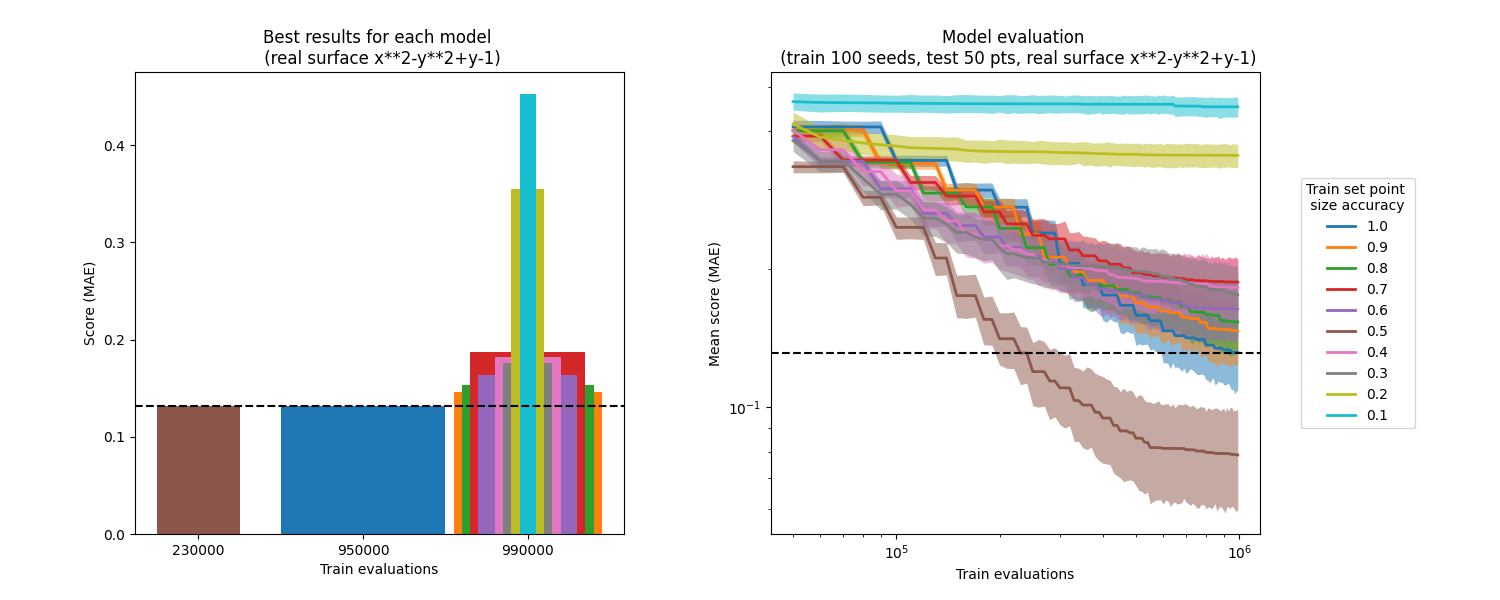
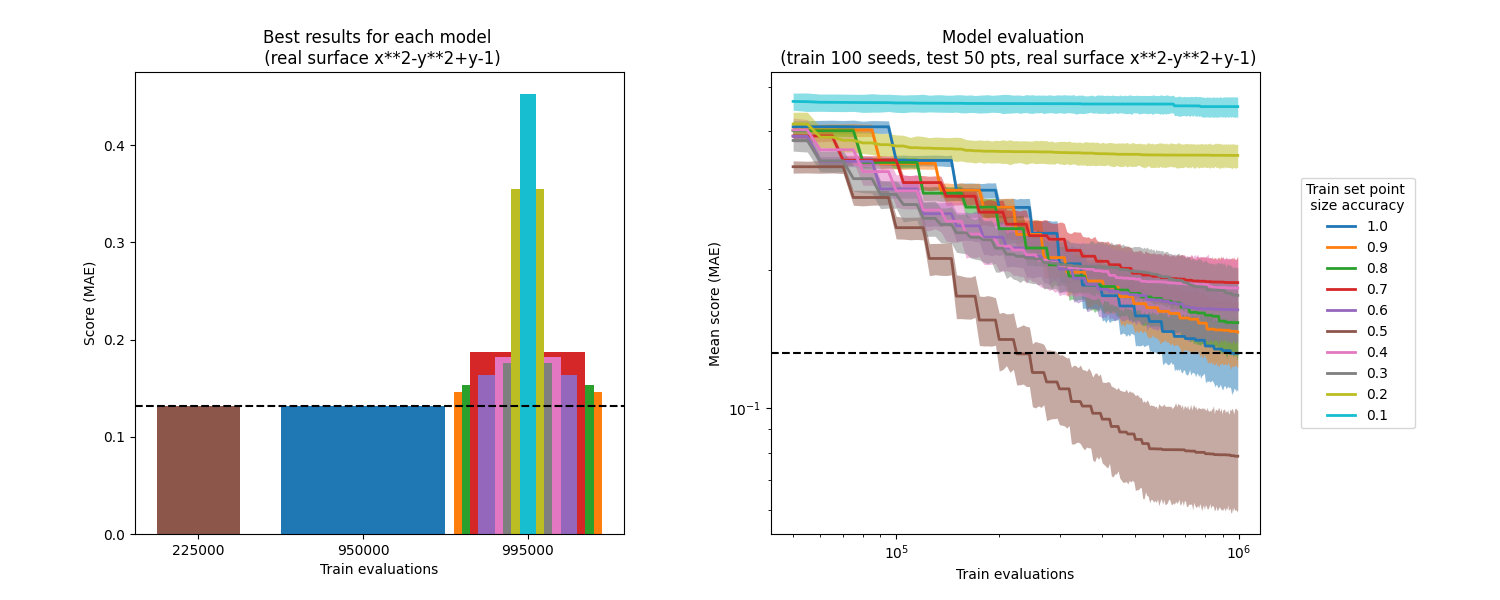
redraw results of ConstantAccuracyAnalysis experiment

diff --git a/experimentScripts_SymbolicRegressor/ConstantAccuracyAnalysis_figures.py b/experimentScripts_SymbolicRegressor/ConstantAccuracyAnalysis_figures.py
@@ -92,7 +92,12 @@ list_acc=np.load('results/data/SymbolicRegressor/ConstantAccuracyAnalysis/list_a
 eval_expr=str(np.load('results/data/SymbolicRegressor/ConstantAccuracyAnalysis/expr_surf.npy'))
 
 # Lista con límites de número de evaluaciones de entrenamiento que se desean dibujar.
-list_train_n_eval=range(50000,1000000,10000)
+df_train_acc_min=pd.read_csv("results/data/SymbolicRegressor/ConstantAccuracyAnalysis/df_train_acc"+str(min(list_acc))+".csv", index_col=0)
+df_train_acc_max=pd.read_csv("results/data/SymbolicRegressor/ConstantAccuracyAnalysis/df_train_acc"+str(max(list_acc))+".csv", index_col=0)
+max_n_eval=np.load('results/data/SymbolicRegressor/ConstantAccuracyAnalysis/max_n_eval.npy')
+min_n_eval=max(df_train_acc_max.groupby("train_seed")["n_eval"].min())
+split_n_eval=max(df_train_acc_min.groupby("train_seed")["n_eval"].min())
+list_train_n_eval=np.arange(min_n_eval,max_n_eval,split_n_eval)
 
 # Conseguir datos para la gráfica.
 train_times=[]

diff --git a/experimentScripts_SymbolicRegressor/ConstantAccuracyAnalysis_data.py b/experimentScripts_SymbolicRegressor/ConstantAccuracyAnalysis_data.py
@@ -648,6 +648,9 @@ np.save('results/data/SymbolicRegressor/ConstantAccuracyAnalysis/list_acc',list_
 # Guardar expresión de superficie.
 np.save('results/data/SymbolicRegressor/ConstantAccuracyAnalysis/expr_surf',expr_surf_real)
 
+# Guardar límite de entrenamiento.
+np.save('results/data/SymbolicRegressor/ConstantAccuracyAnalysis/max_n_eval',max_n_eval)
+
 # Función para ejecución en paralelo.
 def parallel_processing(arg):
 
